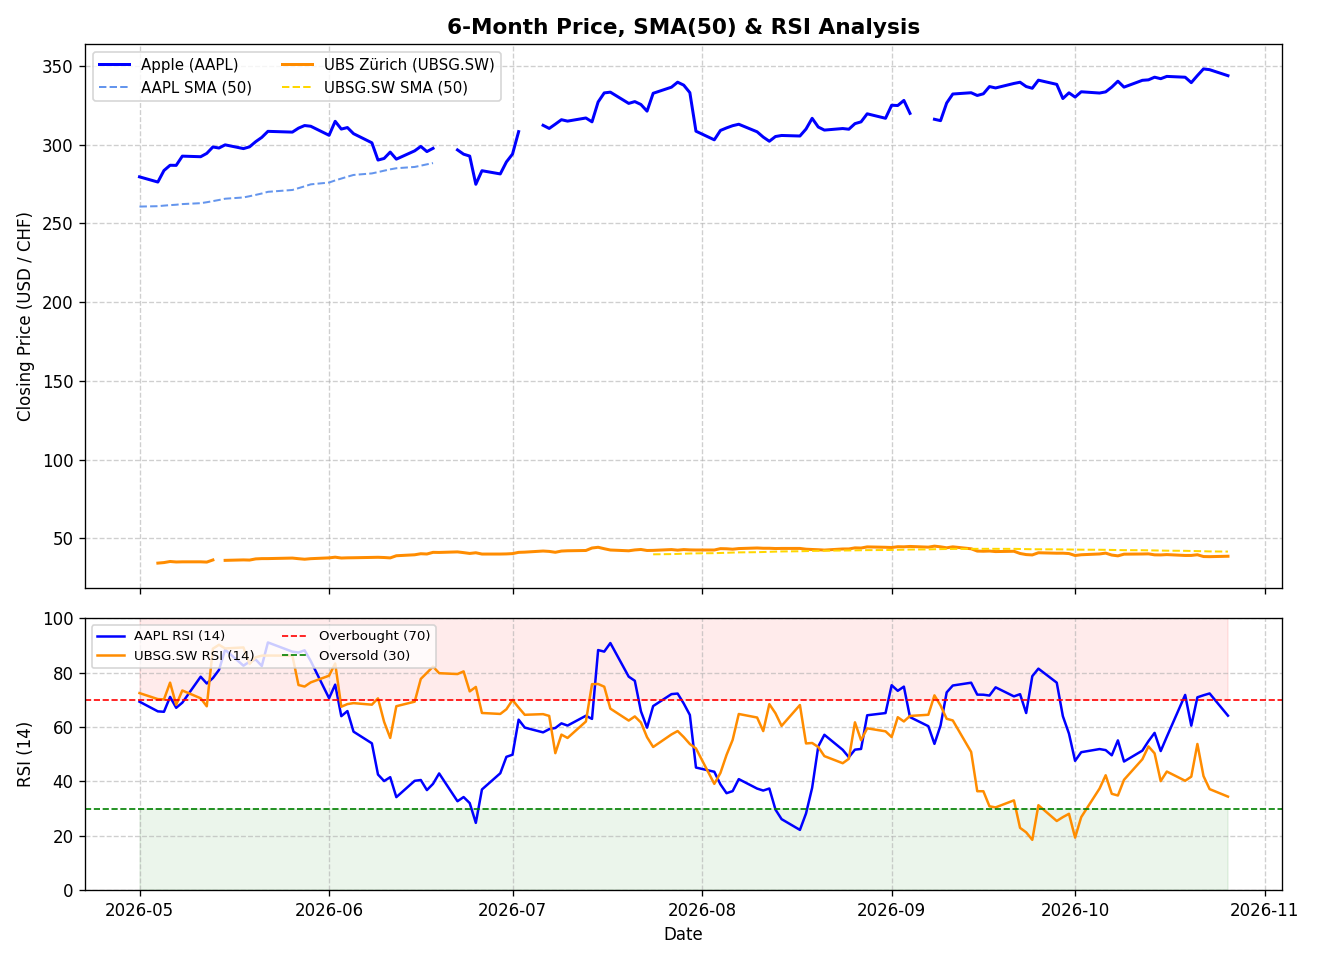
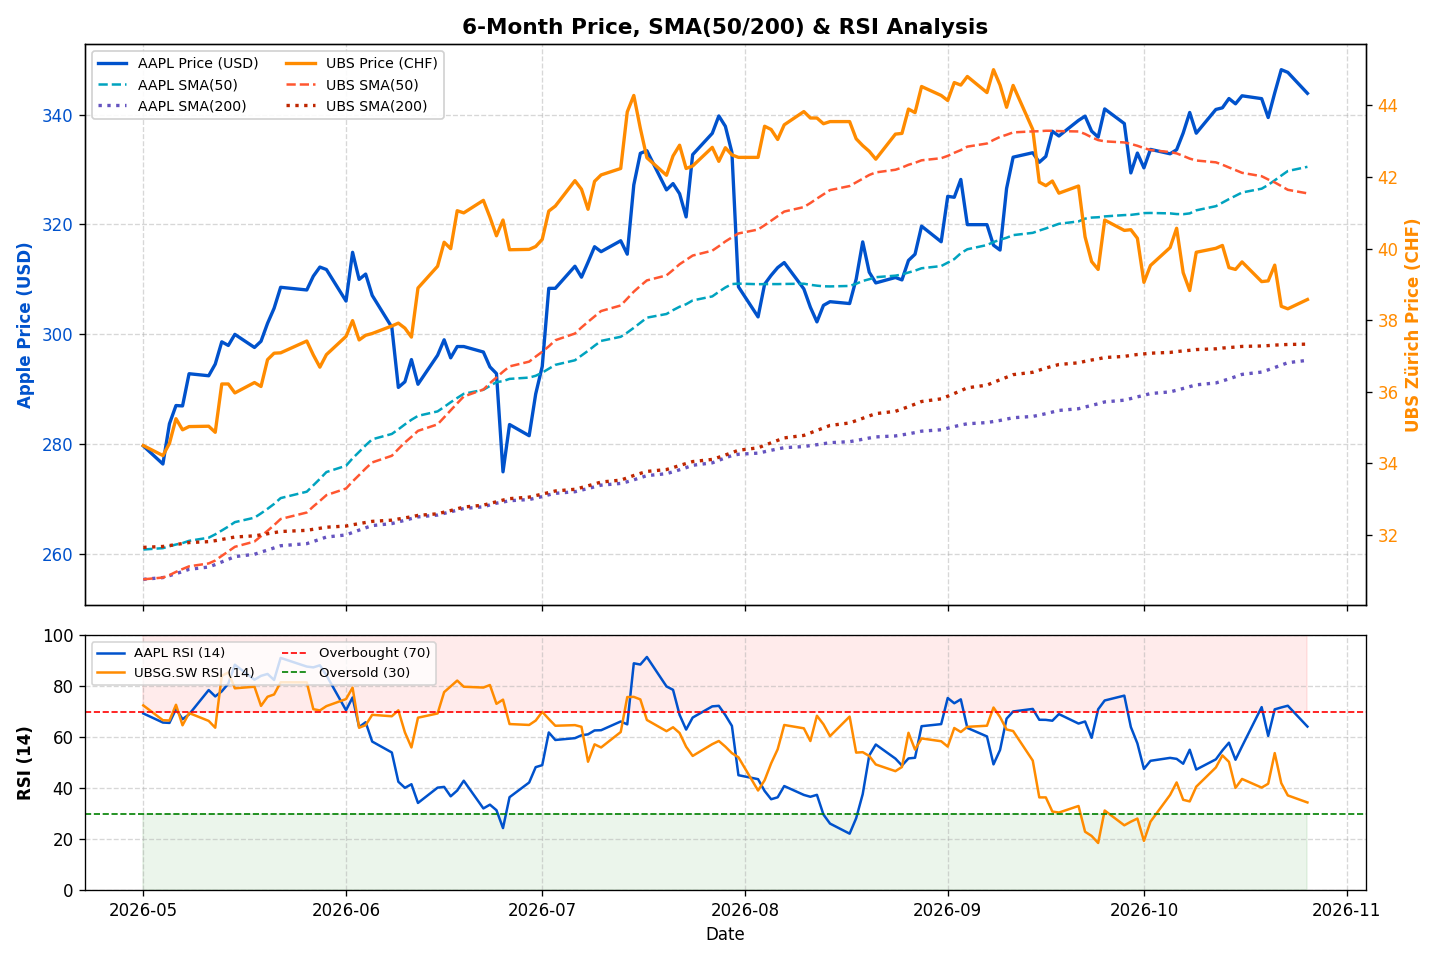
Add SMA(200), fix holiday NaNs with forward-fill, and implement dual Y-axis scaling

diff --git a/main.py b/main.py
@@ -4,10 +4,13 @@ import pandas as pd
 import yfinance as yf
 import matplotlib.pyplot as plt
 
-# 1. Fetch 2 years of stock data (so 1-year charts have full 200-day SMA & RSI from day 1)
+# 1. Fetch 2 years of stock data
 tickers = ["UBSG.SW", "AAPL"]
 print("Downloading financial data from Yahoo Finance...")
 data = yf.download(tickers, period="2y", interval="1d")['Close']
+
+# Clean cross-market holiday NaNs using forward-fill so SMAs never break!
+data = data.ffill().dropna()
 
 # 2. Save raw prices to SQLite database
 conn = sqlite3.connect("stock_data.db")
@@ -25,8 +28,8 @@ def calculate_rsi(series, period=14):
     delta = series.diff()
     gain = delta.where(delta > 0, 0.0)
     loss = -delta.where(delta < 0, 0.0)
-    avg_gain = gain.rolling(window=period, min_periods=period).mean()
-    avg_loss = loss.rolling(window=period, min_periods=period).mean()
+    avg_gain = gain.rolling(window=period, min_periods=1).mean()
+    avg_loss = loss.rolling(window=period, min_periods=1).mean()
     rs = avg_gain / avg_loss
     return 100.0 - (100.0 / (1.0 + rs))
 
@@ -40,23 +43,27 @@ sma50_df = pd.DataFrame(index=df.index)
 sma200_df = pd.DataFrame(index=df.index)
 
 for ticker in tickers:
-    rsi_df[ticker] = calculate_rsi(df[ticker])
-    sma50_df[ticker] = df[ticker].rolling(window=50).mean()
-    sma200_df[ticker] = df[ticker].rolling(window=200).mean()
+    rsi_df[ticker] = calculate_rsi(df[ticker], 14)
+    sma50_df[ticker] = df[ticker].rolling(window=50, min_periods=1).mean()
+    sma200_df[ticker] = df[ticker].rolling(window=200, min_periods=1).mean()
 
-# Filter last 1 year (252 trading days) for analysis and reporting
+# Filter last 1 year (252 trading days)
 df_1y = df.tail(252)
 rsi_1y = rsi_df.tail(252)
 sma50_1y = sma50_df.tail(252)
+sma200_1y = sma200_df.tail(252)
 
 # Calculate Risk Metrics over the last 1 year
-returns_1y = df_1y.pct_change().dropna() * 100
+returns_1y = df_1y.pct_change(fill_method=None).dropna() * 100
 volatility = returns_1y.std() * (252 ** 0.5)
 max_dd = {ticker: calculate_max_drawdown(df_1y[ticker]) for ticker in tickers}
 
 risk_summary = pd.DataFrame({
     "Annualized Volatility (%)": volatility,
     "Max Drawdown (%)": pd.Series(max_dd),
+    "Latest Price": df_1y.iloc[-1],
+    "SMA (50)": sma50_1y.iloc[-1],
+    "SMA (200)": sma200_1y.iloc[-1],
     "Latest RSI (14)": rsi_1y.iloc[-1]
 })
 
@@ -72,50 +79,60 @@ conn.close()
 # 5. Create 'charts' directory
 os.makedirs("charts", exist_ok=True)
 
-# 6. Generate Two-Panel Charts (Top: Price + SMA50, Bottom: RSI)
-def generate_chart(price_sub, sma50_sub, rsi_sub, filename, title_text):
-    fig, (ax1, ax2) = plt.subplots(2, 1, figsize=(11, 8), sharex=True, gridspec_kw={'height_ratios': [2, 1]})
+# 6. Generate Dual-Axis Two-Panel Charts (Top: AAPL vs UBS with SMA50 & SMA200, Bottom: RSI)
+def generate_chart(price_sub, sma50_sub, sma200_sub, rsi_sub, filename, title_text):
+    fig, (ax1, ax2) = plt.subplots(2, 1, figsize=(12, 8), sharex=True, gridspec_kw={'height_ratios': [2.2, 1]})
     
-    # Top Panel: Stock Prices & 50-Day SMA
-    ax1.plot(price_sub.index, price_sub["AAPL"], label="Apple (AAPL)", color="blue", linewidth=1.8)
-    ax1.plot(sma50_sub.index, sma50_sub["AAPL"], label="AAPL SMA (50)", color="cornflowerblue", linestyle="--", linewidth=1.2)
+    # Left Y-Axis: Apple (USD)
+    l1 = ax1.plot(price_sub.index, price_sub["AAPL"], label="AAPL Price (USD)", color="#0052cc", linewidth=2)
+    l2 = ax1.plot(sma50_sub.index, sma50_sub["AAPL"], label="AAPL SMA(50)", color="#00a3bf", linestyle="--", linewidth=1.5)
+    l3 = ax1.plot(sma200_sub.index, sma200_sub["AAPL"], label="AAPL SMA(200)", color="#6554c0", linestyle=":", linewidth=2)
+    ax1.set_ylabel("Apple Price (USD)", color="#0052cc", fontweight="bold")
+    ax1.tick_params(axis='y', labelcolor="#0052cc")
+    ax1.grid(True, linestyle="--", alpha=0.5)
     
-    ax1.plot(price_sub.index, price_sub["UBSG.SW"], label="UBS Zürich (UBSG.SW)", color="darkorange", linewidth=1.8)
-    ax1.plot(sma50_sub.index, sma50_sub["UBSG.SW"], label="UBSG.SW SMA (50)", color="gold", linestyle="--", linewidth=1.2)
+    # Right Y-Axis: UBS (CHF) so it doesn't look flat!
+    ax1_right = ax1.twinx()
+    l4 = ax1_right.plot(price_sub.index, price_sub["UBSG.SW"], label="UBS Price (CHF)", color="#ff8b00", linewidth=2)
+    l5 = ax1_right.plot(sma50_sub.index, sma50_sub["UBSG.SW"], label="UBS SMA(50)", color="#ff5630", linestyle="--", linewidth=1.5)
+    l6 = ax1_right.plot(sma200_sub.index, sma200_sub["UBSG.SW"], label="UBS SMA(200)", color="#bf2600", linestyle=":", linewidth=2)
+    ax1_right.set_ylabel("UBS Zürich Price (CHF)", color="#ff8b00", fontweight="bold")
+    ax1_right.tick_params(axis='y', labelcolor="#ff8b00")
     
+    # Combine legends from both axes
+    lines = l1 + l2 + l3 + l4 + l5 + l6
+    labels = [l.get_label() for l in lines]
+    ax1.legend(lines, labels, loc="upper left", fontsize=8.5, ncol=2, framealpha=0.9)
     ax1.set_title(title_text, fontsize=13, fontweight="bold")
-    ax1.set_ylabel("Closing Price (USD / CHF)")
-    ax1.legend(loc="upper left", fontsize=9, ncol=2)
-    ax1.grid(True, linestyle="--", alpha=0.6)
     
     # Bottom Panel: RSI Indicator
-    ax2.plot(rsi_sub.index, rsi_sub["AAPL"], label="AAPL RSI (14)", color="blue", linewidth=1.5)
-    ax2.plot(rsi_sub.index, rsi_sub["UBSG.SW"], label="UBSG.SW RSI (14)", color="darkorange", linewidth=1.5)
+    ax2.plot(rsi_sub.index, rsi_sub["AAPL"], label="AAPL RSI (14)", color="#0052cc", linewidth=1.5)
+    ax2.plot(rsi_sub.index, rsi_sub["UBSG.SW"], label="UBSG.SW RSI (14)", color="#ff8b00", linewidth=1.5)
     ax2.axhline(70, color="red", linestyle="--", linewidth=1, label="Overbought (70)")
     ax2.axhline(30, color="green", linestyle="--", linewidth=1, label="Oversold (30)")
     ax2.fill_between(rsi_sub.index, 70, 100, color="red", alpha=0.08)
     ax2.fill_between(rsi_sub.index, 0, 30, color="green", alpha=0.08)
     ax2.set_ylim(0, 100)
-    ax2.set_ylabel("RSI (14)")
+    ax2.set_ylabel("RSI (14)", fontweight="bold")
     ax2.set_xlabel("Date")
     ax2.legend(loc="upper left", fontsize=8, ncol=2)
-    ax2.grid(True, linestyle="--", alpha=0.6)
+    ax2.grid(True, linestyle="--", alpha=0.5)
     
     plt.tight_layout()
     filepath = os.path.join("charts", filename)
     plt.savefig(filepath, dpi=120)
     plt.close()
 
-# Define timeframes (5d = 1W, 21d = 1M, 126d = 6M, 252d = 1Y)
+# Define timeframes
 periods = {
-    "chart_1week.png": (df_1y.tail(5), sma50_1y.tail(5), rsi_1y.tail(5), "1-Week Price, SMA(50) & RSI Analysis"),
-    "chart_1month.png": (df_1y.tail(21), sma50_1y.tail(21), rsi_1y.tail(21), "1-Month Price, SMA(50) & RSI Analysis"),
-    "chart_6months.png": (df_1y.tail(126), sma50_1y.tail(126), rsi_1y.tail(126), "6-Month Price, SMA(50) & RSI Analysis"),
-    "chart_1year.png": (df_1y, sma50_1y, rsi_1y, "1-Year Price, SMA(50) & RSI Analysis")
+    "chart_1week.png": (df_1y.tail(5), sma50_1y.tail(5), sma200_1y.tail(5), rsi_1y.tail(5), "1-Week Price, SMA(50/200) & RSI Analysis"),
+    "chart_1month.png": (df_1y.tail(21), sma50_1y.tail(21), sma200_1y.tail(21), rsi_1y.tail(21), "1-Month Price, SMA(50/200) & RSI Analysis"),
+    "chart_6months.png": (df_1y.tail(126), sma50_1y.tail(126), sma200_1y.tail(126), rsi_1y.tail(126), "6-Month Price, SMA(50/200) & RSI Analysis"),
+    "chart_1year.png": (df_1y, sma50_1y, sma200_1y, rsi_1y, "1-Year Price, SMA(50/200) & RSI Analysis")
 }
 
-for filename, (p_sub, s_sub, r_sub, title) in periods.items():
-    generate_chart(p_sub, s_sub, r_sub, filename, title)
+for filename, (p_sub, s50_sub, s200_sub, r_sub, title) in periods.items():
+    generate_chart(p_sub, s50_sub, s200_sub, r_sub, filename, title)
     print(f"Successfully generated: charts/{filename}")
 
-print("\nAll quantitative metrics and charts updated successfully!")
+print("\nAll dual-axis SMA(50/200) and RSI charts updated successfully!")
